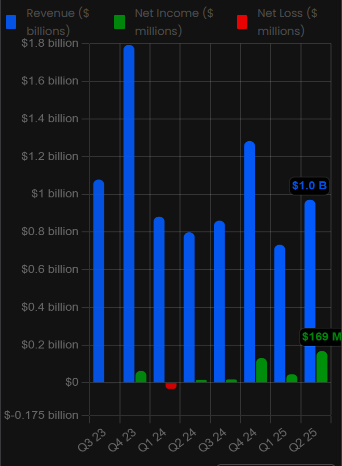
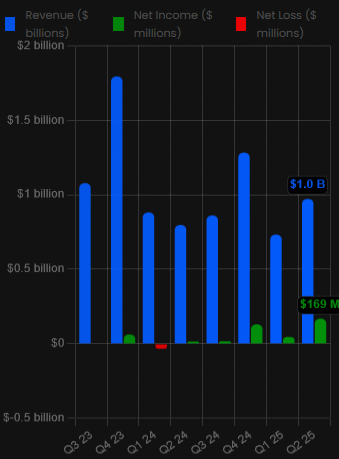
Michael Burry

diff --git a/src/app/info-pages/michael-burry/michael-burry.component.html b/src/app/info-pages/michael-burry/michael-burry.component.html
@@ -1,0 +1,65 @@
+<div class="component-root">
+    <div class="page-content">
+        <h1 class="page-title">
+            Michael Burry
+        </h1>
+        <h5 class="page-subtitle">
+            Famed Investor Michael Burry's Relationship to GME
+        </h5>
+        <div class="page-section">
+            <div class="section-heading">
+                Summary
+            </div>
+            <ul>
+                <li>In 2019, Michael Burry invested in GME and wrote a letter to the then-board of directors,
+                    recommending a stock buyback</li>
+                <li>Michael Burry sold his entire GME position by the end of 2020 at a significant gain. His involvement
+                    arguably played a
+                    major role in the lead up to
+                    <a [routerLink]="'/sneeze'">the sneeze</a>
+                </li>
+
+            </ul>
+        </div>
+        <div class="page-section">
+            <div class="section-heading">Timeline</div>
+            <ul>
+                <li>Late 2018: Michael Burry opens a GME position </li>
+                <li>August 16, 2019: Michael Burry <a
+                        href="https://pbs.twimg.com/media/G6vIySPWwAAvXej?format=jpg&name=large" target="_blank"
+                        class="external-link" rel="nofollow">
+                        writes a letter to the GameStop board of directors</a> encouraging a stock buyback</li>
+                <li>Keith Gill's <a
+                        href="https://www.reddit.com/r/wallstreetbets/comments/d1g7x0/hey_burry_thanks_a_lot_for_jacking_up_my_cost/"
+                        target="blank" rel="no-follow" class="external-link">first post on Reddit as DeepFuckingValue
+                        (September 8,
+                        2019)</a>
+                    referenced Burry's involvement with GME</li>
+                <li>In November 2025, Burry deregistered his hedge fund, Scion Asset Management, and subsequently
+                    announced his concerns about an AI bubble, specifically with respect to Nvidia and Palantir.
+                    Burry then revealed
+                    additional information relevant to GME, notably that in 2019 <a
+                        href="https://x.com/michaeljburry/status/1993908030430433460" target="_blank"
+                        class="external-link" rel="nofollow">he received correspondence</a> from both <a
+                        [routerLink]="'/ryan-cohen'">Ryan Cohen</a> and <a [routerLink]="'/keith-gill'">Keith Gill</a>.
+                </li>
+            </ul>
+        </div>
+
+
+        <div class="page-section">
+            <div class="section-heading">More links</div>
+            <div>
+                <a href="https://en.wikipedia.org/wiki/Michael_Burry" target="_blank" class="external-link"
+                    rel="nofollow">
+                    <img src="assets/icons/wikipedia-logo.png" alt=""
+                        style="height: 20px;width: 20px;margin-right: 10px;"> Michael Burry - Wikipedia
+                </a>
+
+            </div>
+        </div>
+    </div>
+
+    <div style="margin-top:50px;"></div>
+    <app-footer class="app-footer"></app-footer>
+</div>

diff --git a/src/app/info-pages/ryan-cohen/ryan-cohen.component.html b/src/app/info-pages/ryan-cohen/ryan-cohen.component.html
@@ -93,13 +93,21 @@
         <div class="page-section">
             <div class="section-heading">2025 Media Appearances</div>
             <ul>
-                <li><a href="https://x.com/gamestop/status/1927770418959577147" target="_blank" class="external-link" rel="nofollow">May 28 interview with
+                <li><a href="https://x.com/gamestop/status/1927770418959577147" target="_blank" class="external-link"
+                        rel="nofollow">May 28 interview with
                         David Bailey from BTC Inc.</a></li>
                 <li><a href="https://www.reddit.com/r/Superstonk/comments/1m0fitk/ryan_cohen_on_cnbc_july_15_2025/"
-                        target="_blank" class="external-link" rel="nofollow">July 15 interview with Andrew Sorkin on CNBC</a></li>
+                        target="_blank" class="external-link" rel="nofollow">July 15 interview with Andrew Sorkin on
+                        CNBC</a></li>
                 <li><a href="https://www.reddit.com/r/Superstonk/comments/1m0pqqq/ryan_cohen_fox_business_interview_with_charles/"
-                        target="_blank" class="external-link" rel="nofollow">July 15 interview with Charles Payne on Fox Business</a></li>
+                        target="_blank" class="external-link" rel="nofollow">July 15 interview with Charles Payne on Fox
+                        Business</a></li>
+                <li><a href="https://www.youtube.com/watch?v=UVSGKY4X018"
+                        target="_blank" class="external-link" rel="nofollow">October 20 interview with TBPN</a></li>
             </ul>
+
+
+            
         </div>
         <div class="page-section">
             <div class="section-heading">More links</div>

diff --git a/src/app/main-pages/start-page/start-page.component.html b/src/app/main-pages/start-page/start-page.component.html
@@ -93,6 +93,9 @@
                         information</p>
                     <p class="section-p">As of fiscal year 2024 results, GameStop had revenue
                         of $3.8 billion, and net income of $131 million.</p>
+                    <p class="section-p">As of Q2 2025 results, GameStop has posted positive profits for 5 quarters in a
+                        row, with $169 million net income for the quarter -- among the most profitable quarters in the history of the company.
+                    </p>
                 </div>
 
 
@@ -105,8 +108,10 @@
             <div class="section-heading">GME Ownership</div>
             <div class="section-body">
                 <div style="max-width: 650px; margin-right: 10px;">
-                    <img *ngIf="!isDarkMode" src="assets/main-pages/ownership.png" alt="gme ownership" class="page-image">
-                    <img *ngIf="isDarkMode" src="assets/main-pages/ownership-dark.png" alt="gme ownership" class="page-image">
+                    <img *ngIf="!isDarkMode" src="assets/main-pages/ownership.png" alt="gme ownership"
+                        class="page-image">
+                    <img *ngIf="isDarkMode" src="assets/main-pages/ownership-dark.png" alt="gme ownership"
+                        class="page-image">
                 </div>
 
                 <div>

diff --git a/src/app/info-pages/michael-burry/michael-burry.component.ts b/src/app/info-pages/michael-burry/michael-burry.component.ts
@@ -1,0 +1,23 @@
+import { Component } from '@angular/core';
+import { ScreenService } from '../../shared/services/screen-size.service';
+import { RouterModule } from '@angular/router';
+import { CommonModule } from '@angular/common';
+import { FooterComponent } from '../../layout/footer/footer.component';
+
+@Component({
+  selector: 'app-michael-burry',
+  standalone: true,
+  imports: [RouterModule, CommonModule, FooterComponent],
+  templateUrl: './michael-burry.component.html',
+  styleUrl: './michael-burry.component.scss'
+})
+export class MichaelBurryComponent {
+  constructor(private _screenService: ScreenService) {
+    const title = "Michael Burry | gmewiki.org";
+    const description = 'Michael Burry’s Relationship to GME | gmewiki.org';
+    const url = 'https://gmewiki.org/michael-burry';
+    const image = '';
+    this._screenService.setPageInfo(title, description, url, image);
+
+  }
+}

diff --git a/src/app/app.routes.ts b/src/app/app.routes.ts
@@ -52,6 +52,7 @@ import { ShortsNeverClosedComponent } from './info-pages/shorts-never-closed/sho
 import { MemeStockComponent } from './info-pages/meme-stock/meme-stock.component';
 import { MarketTacticsComponent } from './info-pages/market-tactics/market-tactics.component';
 import { SuperstonkComponent } from './info-pages/superstonk/superstonk.component';
+import { MichaelBurryComponent } from './info-pages/michael-burry/michael-burry.component';
 
 
 
@@ -132,6 +133,8 @@ export const routes: Routes = [
     { path: 'meme-stocks', component: MemeStockComponent },
 
     { path: 'moass', component: MoassComponent },
+
+    { path: 'michael-burry', component: MichaelBurryComponent },
 
     { path: 'naked-short-selling', component: NakedShortSellingComponent },
     { path: 'naked-shorts-cnbc', component: CNBCVsNakedShortsComponent },
